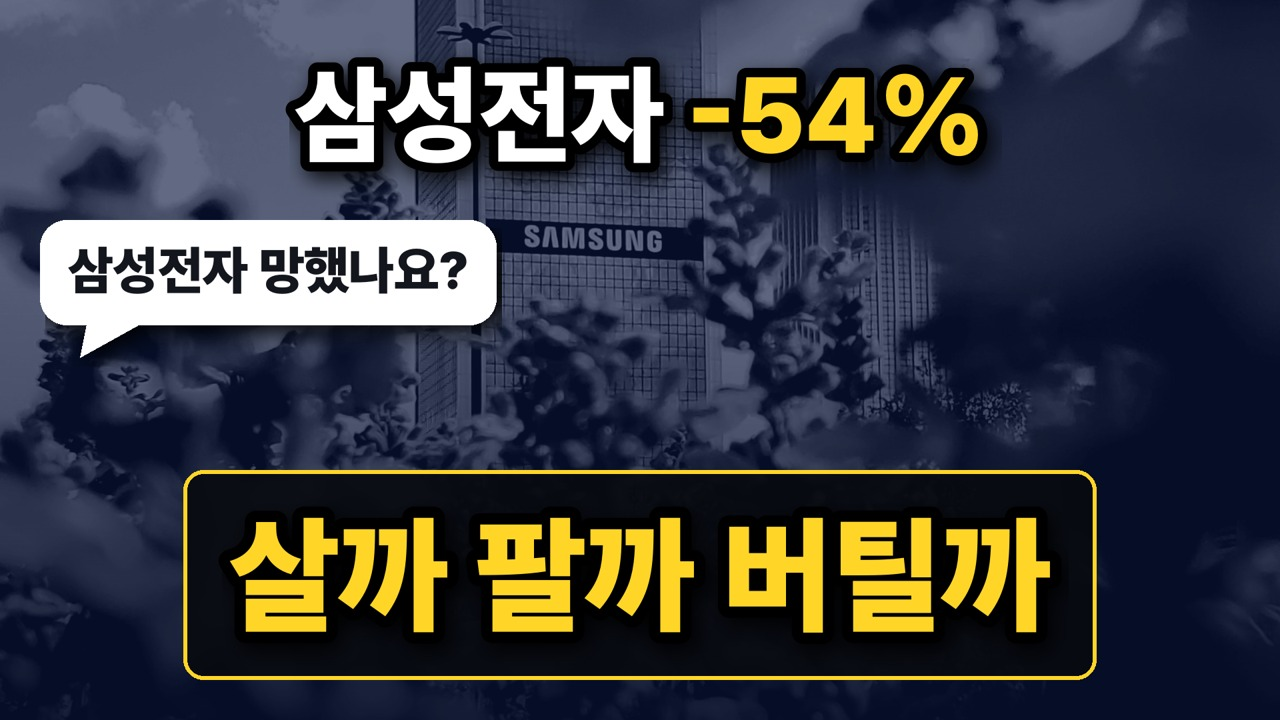
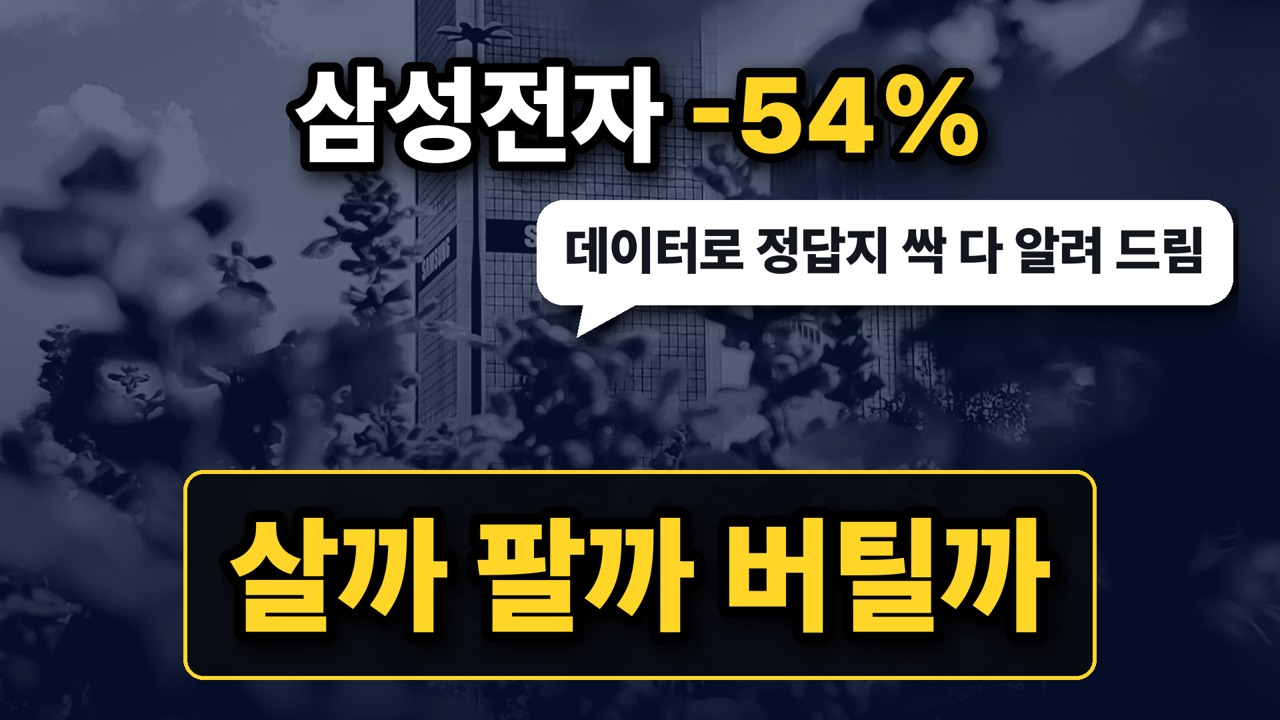
EP026 썸네일 S4 확정(말풍선 가운데 오른쪽 · 정답지 약속)
Claude-Session: https://claude.ai/code/session_01XzgYRsYwxnJKVwoBmLGtiR

Changed region(s): [[0.0312, 0.275, 0.9688, 0.4889]]

diff --git a/youtube/THUMB_PATTERNS.md b/youtube/THUMB_PATTERNS.md
@@ -78,3 +78,4 @@
 - 스타일 4종을 **편마다 번갈아** 쓴다 (같은 썸네일만 보는 느낌 방지): A 흑백 실사 + 아래 2줄 · S2 컬러 실사 + 기울어진 빨간 띠 · S3 노란 테두리 + 왼쪽 검은 패널 · S4 남색 톤 + 노란 테두리 상자
 - '결말 시리즈' 배지는 **내용에 따라 붙이거나 뗀다**: 과거 사례 · 백테스트의 결말이면 붙이고, 그 외(설명형 · 인물형 등)는 뗀다
 - 도구: `tools/thumb_retitle.py` (make_a · make_s2 · make_s3 · make_s4, 항목별 badge: None 이면 배지 없음)
+- 11/26: S4 말풍선은 **항상 가운데 오른쪽** · 말풍선은 시청자 걱정("망했나요?")보다 **우리가 주는 약속 · 자극**("데이터로 정답지 싹 다 알려 드림")이 더 세다
